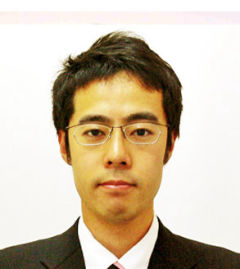
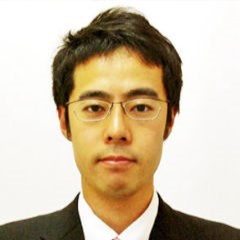
add ryoichi, remove brendt

diff --git a/speakers.html b/speakers.html
@@ -11,10 +11,10 @@
     <meta name="viewport" content="width=device-width, initial-scale=1, minimum-scale=1">
     <link rel="shortcut icon" href="assets/images/wacci-122x64.png" type="image/x-icon">
     <meta name="description" content="WACCI 2022 Event - Speakers page">
-    <meta name="keywords" content="WACCI2022, compressive, computational imaging, UIS"/>
+    <meta name="keywords" content="WACCI2022, compressive, computational imaging, UIS" />
     <meta name="author" content="HDSP UIS 2022">
-    <meta name="robots" content="index,follow">    
-    
+    <meta name="robots" content="index,follow">
+
     <link rel="stylesheet" href="assets/bootstrap/css/bootstrap.min.css">
     <link rel="stylesheet" href="assets/bootstrap/css/bootstrap-grid.min.css">
     <link rel="stylesheet" href="assets/bootstrap/css/bootstrap-reboot.min.css">
@@ -71,8 +71,9 @@
                             Registration</a></li>
                     <li class="nav-item"><a class="nav-link link text-black display-4" href="program.html">
                             Program</a></li>
-                            <li class="nav-item" style="background-color: #149DCC; border-radius: 3px; text-decoration: none;"><a class="nav-link link text-black display-4" href="course.html">
-                                Course</a></li>
+                    <li class="nav-item" style="background-color: #149DCC; border-radius: 3px; text-decoration: none;">
+                        <a class="nav-link link text-black display-4" href="course.html">
+                            Course</a></li>
                     <li class="nav-item"><a class="nav-link link text-black display-4" href="speakers.html">
                             Speakers</a></li>
                     <li class="nav-item"><a class="nav-link link text-black display-4" href="venue.html">
@@ -145,7 +146,10 @@
                 </div>
 
 
-                <div class="card p-3 col-12 col-md-6 col-lg-4">
+
+
+
+                <!-- <div class="card p-3 col-12 col-md-6 col-lg-4">
                     <div class="card-wrapper media-container-row media-container-row">
                         <div class="p-0 card-box align-center">
                             <div class="p-4 testimonial-photo">
@@ -169,7 +173,7 @@
                             <p class="mbr-text mbr-fonts-style display-7">Los Alamos National Lab<br>USA</p>
                         </div>
                     </div>
-                </div>
+                </div> -->
 
 
                 <div class="card p-3 col-12 col-md-6 col-lg-4">
@@ -199,6 +203,33 @@
                         </div>
                     </div>
                 </div>
+
+                <div class="card p-3 col-12 col-md-6 col-lg-4">
+                    <div class="card-wrapper media-container-row media-container-row">
+                        <div class="p-0 card-box align-center">
+                            <div class="p-4 testimonial-photo">
+                                <img src="assets/images/speakers/ryochi.jpg" class="rounded-circle" width="120px">
+                            </div>
+                            <h4 class="card-title pb-3 mbr-fonts-style display-7">Dr. Ryoichi Horisaki</h4>
+
+
+                            <h3 class="mbr-section-subtitle align-center mbr-light mbr-fonts-style">
+
+                                <a href="https://www.linkedin.com/in/ryoichi-horisaki-23768855/">
+                                    <i class="fa-brands fa-linkedin"></i>
+                                </a>
+
+                                <a href="#">
+                                    <i class="ai ai-google-scholar-square"></i>
+                                </a>
+
+                            </h3>
+
+                            <p class="mbr-text mbr-fonts-style display-7">University of Tokyo<br>Japan</p>
+                        </div>
+                    </div>
+                </div>
+
 
 
             </div>
@@ -235,8 +266,7 @@
                     <div class="card-wrapper media-container-row media-container-row">
                         <div class="p-0 card-box align-center">
                             <div class="p-4 testimonial-photo">
-                                <img src="assets/images/about/Julia_Alonso.jpg" class="rounded-circle"
-                                    width="120px">
+                                <img src="assets/images/about/Julia_Alonso.jpg" class="rounded-circle" width="120px">
                             </div>
                             <h4 class="card-title pb-3 mbr-fonts-style display-7">Dr. Julia Alonso</h4>
 
@@ -259,34 +289,8 @@
                 </div>
 
 
-                <div class="card p-3 col-12 col-md-6 col-lg-4">
-                    <div class="card-wrapper media-container-row media-container-row">
-                        <div class="p-0 card-box align-center">
-                            <div class="p-4 testimonial-photo">
-                                <img src="assets/images/speakers/ryochi.jpg" class="rounded-circle"
-                                    width="120px">
-                            </div>
-                            <h4 class="card-title pb-3 mbr-fonts-style display-7">Dr. Ryoichi Horisaki</h4>
 
 
-                            <h3 class="mbr-section-subtitle align-center mbr-light mbr-fonts-style">
-
-                                <a href="https://www.linkedin.com/in/ryoichi-horisaki-23768855/">
-                                    <i class="fa-brands fa-linkedin"></i>
-                                </a>
-
-                                <a href="#">
-                                    <i class="ai ai-google-scholar-square"></i>
-                                </a>
-
-                            </h3>
-
-                            <p class="mbr-text mbr-fonts-style display-7">University of Tokyo<br>Japan</p>
-                        </div>
-                    </div>
-                </div>
-
-                
                 <div class="card p-3 col-12 col-md-6 col-lg-4">
                     <div class="card-wrapper media-container-row media-container-row">
                         <div class="p-0  card-box align-center">
@@ -312,23 +316,12 @@
                 </div>
 
 
-            </div>
-        </div>
-
-
-
-    </section>
-
-
-    <section class="mb-10 features4 cid-rsyGJYQKAW" id="features4-z">
-        <div class="container">
-            <div class="media-container-row">
-
                 <div class="card p-3 col-12 col-md-6 col-lg-4">
                     <div class="card-wrapper media-container-row media-container-row">
                         <div class="p-0 card-box align-center">
                             <div class="p-4 testimonial-photo">
-                                <img src="assets/images/speakers/Enrique_Tajahuerce.jpg" class="rounded-circle" width="120px">
+                                <img src="assets/images/speakers/Enrique_Tajahuerce.jpg" class="rounded-circle"
+                                    width="120px">
                             </div>
                             <h4 class="card-title pb-3 mbr-fonts-style display-7">Dr. Enrique Tajahuerce</h4>
 
@@ -349,6 +342,21 @@
                         </div>
                     </div>
                 </div>
+
+
+            </div>
+        </div>
+
+
+
+    </section>
+
+
+    <section class="mb-10 features4 cid-rsyGJYQKAW" id="features4-z">
+        <div class="container">
+            <div class="media-container-row">
+
+                
 
                 <div class="card p-3 col-12 col-md-6 col-lg-4">
                     <div class="card-wrapper media-container-row media-container-row">
@@ -397,26 +405,18 @@
 
                             </h3>
 
-                            <p class="mbr-text mbr-fonts-style display-7">Pontificia Universidad Católica del Perú<br>Perú</p>
+                            <p class="mbr-text mbr-fonts-style display-7">Pontificia Universidad Católica del
+                                Perú<br>Perú</p>
                         </div>
                     </div>
                 </div>
 
-            </div>
-        </div>
-    </section>
-
-
-    <section class="mb-10 features4 cid-rsyGJYQKAW" id="features4-z">
-        <div class="container">
-            <div class="media-container-row">
 
                 <div class="card p-3 col-12 col-md-6 col-lg-4">
                     <div class="card-wrapper media-container-row media-container-row">
                         <div class="p-0 card-box align-center">
                             <div class="p-4 testimonial-photo">
-                                <img src="assets/images/about/Ariel_Fernandez.jpg" class="rounded-circle"
-                                    width="120px">
+                                <img src="assets/images/about/Ariel_Fernandez.jpg" class="rounded-circle" width="120px">
                             </div>
                             <h4 class="card-title pb-3 mbr-fonts-style display-7">Dr. Ariel Fernandez</h4>
 
@@ -437,11 +437,22 @@
                         </div>
                     </div>
                 </div>
-    
+
             </div>
         </div>
     </section>
-                
+
+
+    <section class="mb-10 features4 cid-rsyGJYQKAW" id="features4-z">
+        <div class="container">
+            <div class="media-container-row">
+
+
+
+            </div>
+        </div>
+    </section>
+
 
 
     <section class="pt-3 mbr-section content4 cid-rsyGJhIgQH" id="content4-y">
@@ -647,7 +658,7 @@
                 </div>
 
 
-                
+
 
 
             </div>

diff --git a/home.html b/home.html
@@ -160,23 +160,6 @@
                     </div>
                 </div>
 
-                <div class="mbr-testimonial p-3 align-center col-12 col-md-6 col-lg-4">
-                    <div class="panel-item p-3">
-                        <div class="card-block">
-                            <div class="testimonial-photo">
-                                <img src="assets/images/brendt.png" alt="" title="">
-                            </div>
-                            <p class="mbr-text mbr-fonts-style display-7">
-                                <strong>Dr. Brendt Wohlberg</strong>
-                                <br>Los Alamos National Lab<strong><br></strong><br>
-                            </p>
-                        </div>
-                        <div class="card-footer">
-
-
-                        </div>
-                    </div>
-                </div>
 
                 <div class="mbr-testimonial p-3 align-center col-12 col-md-6 col-lg-4">
                     <div class="panel-item p-3">
@@ -188,6 +171,25 @@
                                 <strong>Dr. Gonzalo Arce<br>
                                 </strong>University of Delaware<br><strong>
                                 </strong>
+                            </p>
+                        </div>
+                        <div class="card-footer">
+
+
+                        </div>
+                    </div>
+                </div>
+
+
+                <div class="mbr-testimonial p-3 align-center col-12 col-md-6 col-lg-4">
+                    <div class="panel-item p-3">
+                        <div class="card-block">
+                            <div class="testimonial-photo">
+                                <img src="assets/images/speakers/ryochi.jpg" alt="" title="">
+                            </div>
+                            <p class="mbr-text mbr-fonts-style display-7">
+                                <strong>Dr. Ryoichi Horisaki</strong>
+                                <br>University of Tokyo Japan<strong><br></strong><br>
                             </p>
                         </div>
                         <div class="card-footer">
